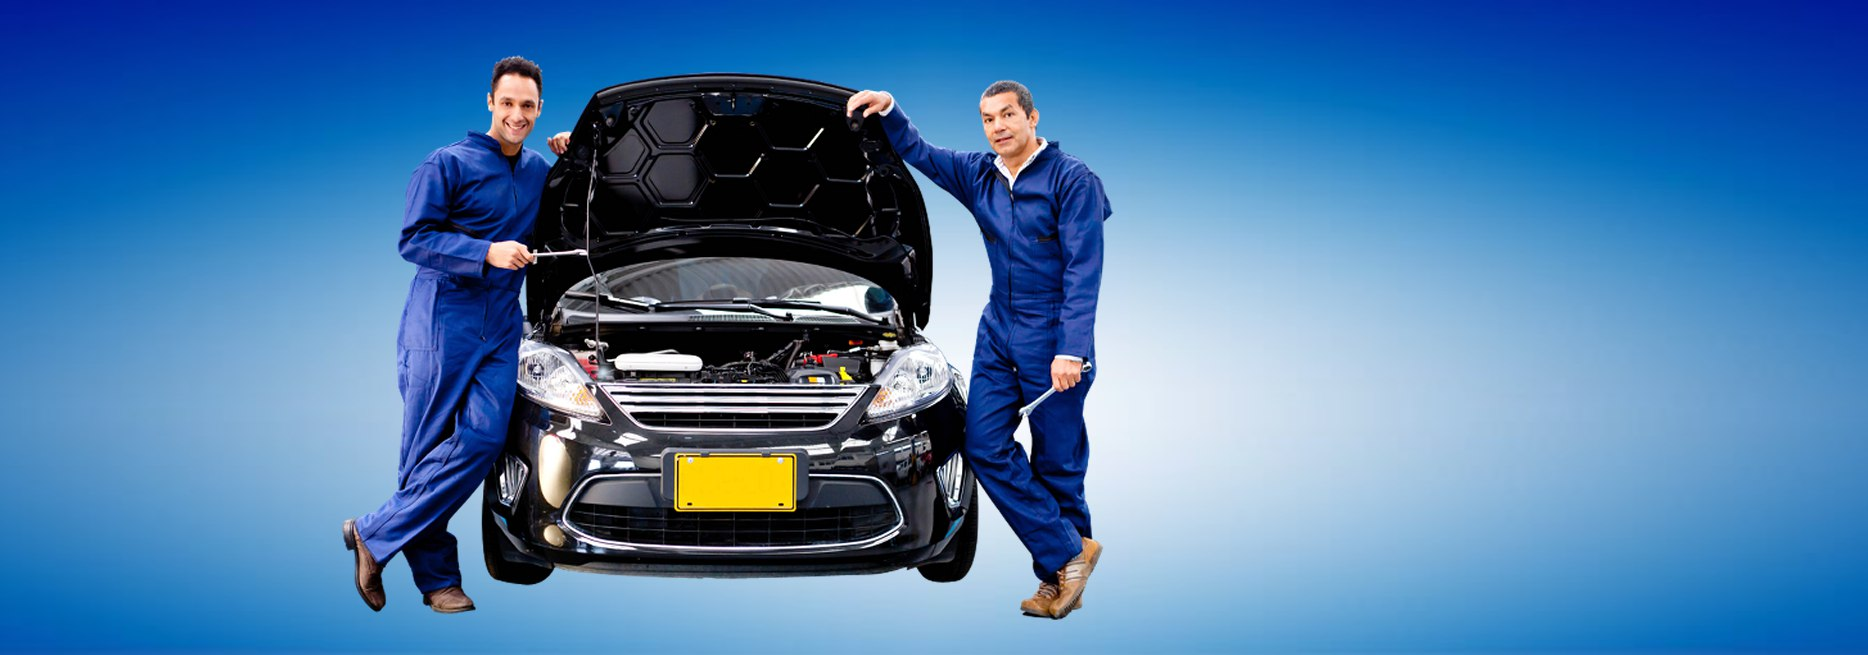
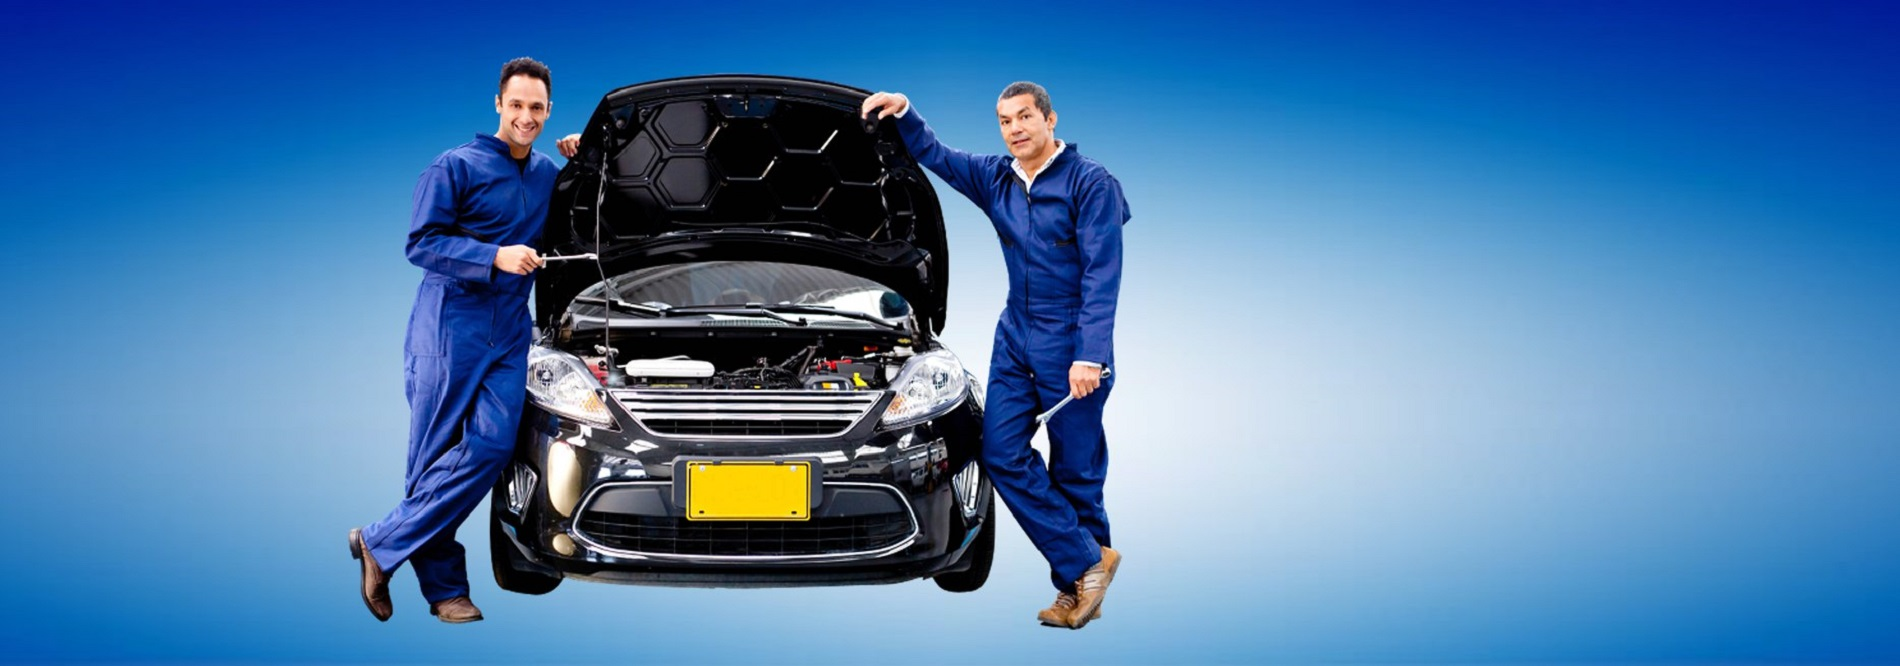
index

diff --git a/Hojas CSS/CSS_Index.css b/Hojas CSS/CSS_Index.css
@@ -510,16 +510,16 @@ footer {
  
  /*----------------------servicios---------------------------*/
 
- .parrafo_gris {
-   text-align: center;
-   font-size: 20px;
-   color: gray;
- }
- .imagen img{
-    margin-top: 10%;
-    margin-left: 15%;
-    width:80%;   
-}
+    .parrafo_gris {
+        text-align: center;
+        font-size: 20px;
+        color: gray;
+    }
+    .imagen img{
+        margin-top: 10%;
+        margin-left: 15%;
+        width:80%;   
+    }
 
  /*-----------------iconos-------------------------*/
  
@@ -559,7 +559,7 @@ footer {
 .opiniones{
     margin: 0px;
     padding: 0px;
-    width: 20%;
+    width: 15%;
 }
 #float_rigth {
     float: right;
@@ -606,22 +606,18 @@ footer {
     margin-left: 10%;
     margin-right: 0%;     
 }
-
 .enlaces {
     margin-left: 1%;
 }
-
-
-
 .contactanos li:hover {
-    color: darksalmon;
-    
+    color: darksalmon;   
 }
 .contactanos i {
     padding-left: 10px;
 }
-
-
+.contactanos li a:hover {
+    color: darksalmon;
+}
 
 }
 /*-------------------------------Versión Web-------------------------------------*/
@@ -652,5 +648,57 @@ footer {
     .site-nav a:hover,
     .site-nav a:focus{
         background: transparent;
+    }
+
+     /*--------------------------inicio----------------------------------*/
+     body > div{
+        background-image: url(../Imagenes/Inicio.jpg);   
+    }
+    .inicio {
+        position: relative;
+    }
+
+    .texto1{
+        position: absolute;
+        padding:  1%;
+        padding-top: 150px;
+        margin-left: 70%;
+        font-size: 15px;
+    }
+
+    .texto2{
+        position: absolute;
+        padding:20px;
+        margin-left: 65%;
+        padding-top: 300px;
+    
+    }
+  
+
+    .btn_cita{
+        position: absolute;
+        margin-top: 470px;
+        margin-left: 73%;
+    }
+
+ /* ---------------Seción informacion---------------*/
+    #informacion {
+        width: 900px;
+        margin-left: 480px;
+        padding-left: 20px;
+        padding-right: 20px;
+    }
+
+/*----------------------servicios---------------------------*/
+
+     .parrafo_gris {
+        text-align: center;
+        font-size: 20px;
+        color: gray;
+    }
+    .imagen img{
+        margin-top: 10%;
+        margin-left: 15%;
+        width:45%;   
     }
 }
